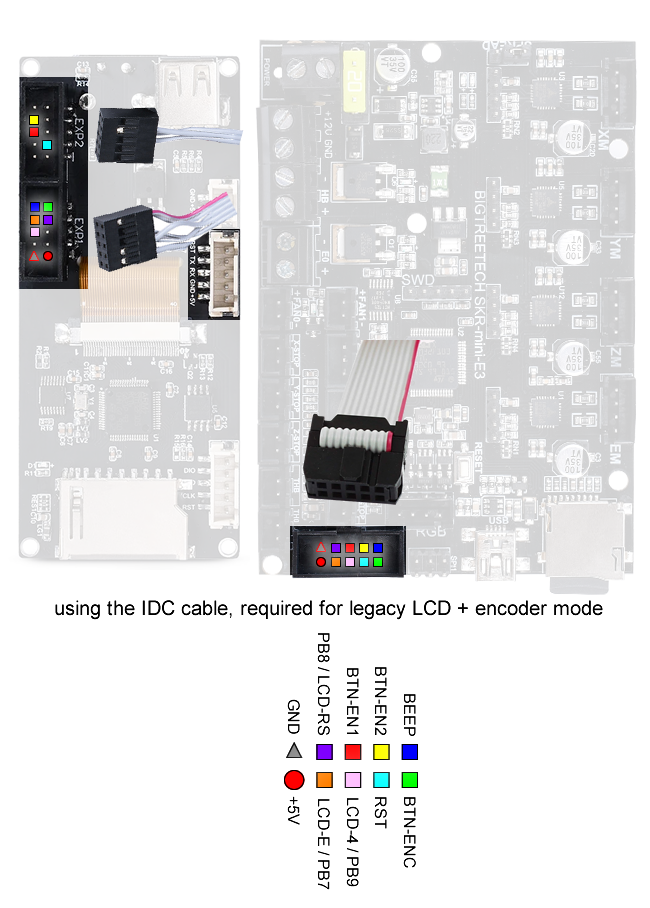
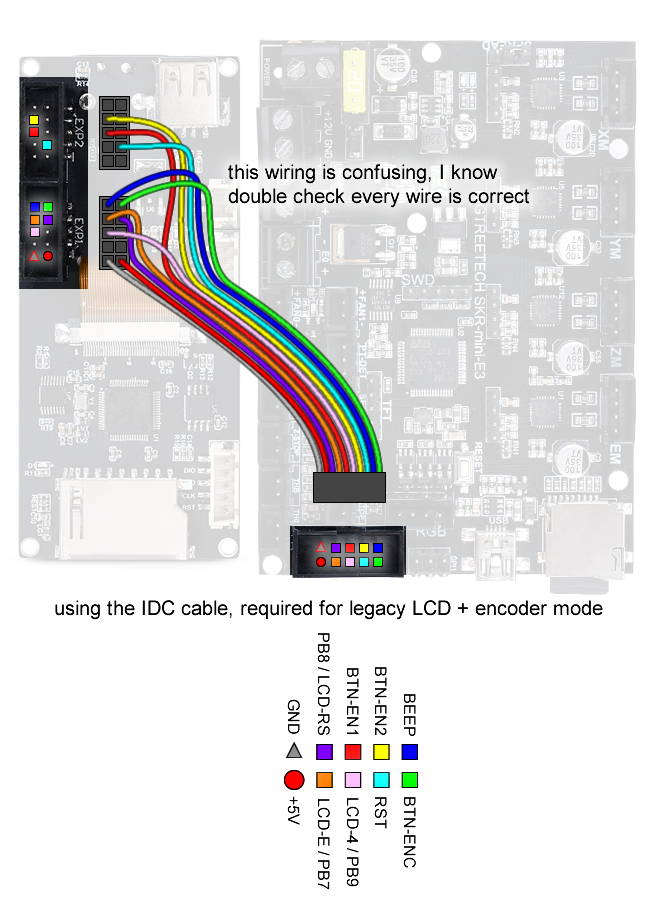
LCD diagram edited to avoid confusion

Changed region(s): [[0.1231, 0.0925, 0.8, 0.5551]]

diff --git a/ordered_lessons/lesson11b.md b/ordered_lessons/lesson11b.md
@@ -56,9 +56,13 @@ The control circuit (SKR Mini E3) should be mounted inside its 3D printed box, s
 
 The LCD screen should also be mounted inside its own 3D printed box, secured with M3 standoffs and short M3 screws. But before you tighten down the screws, connect the LCD screen to the control circuit with the cable that came with it.
 
-[![](../images/lesson11/connectlcd.png)](../images/lesson11/connectlcd.png)
+![](../images/lesson11/connectlcd.png)
+   
+![](../images/lesson11/connectlcd2.png)
+   
+![](../images/lesson11/connectlcd3.png)
 
-[![](../images/lesson11/connectlcdall.png)](../images/lesson11/connectlcdall.png)
+Be really careful about plugging in the cables the right way! BigTreeTech seems to have put some connectors backwards. So I made those diagrams extremely detailed, follow every wire in the diagram to make sure the connectors are orientated correctly.
 
 ## 3: Power Supply to Control Circuit
 
